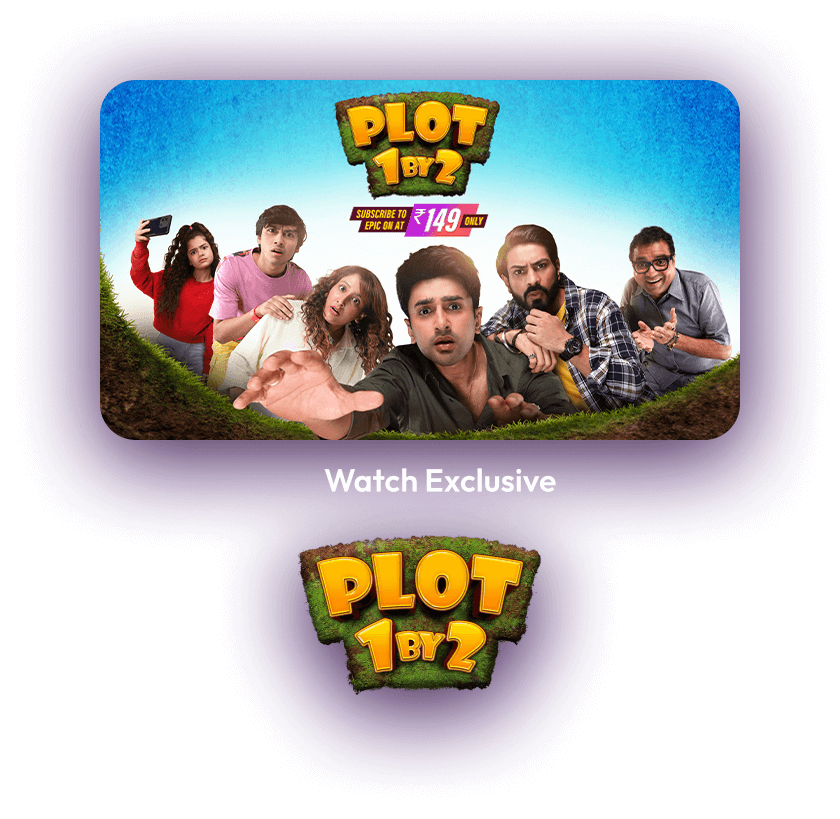
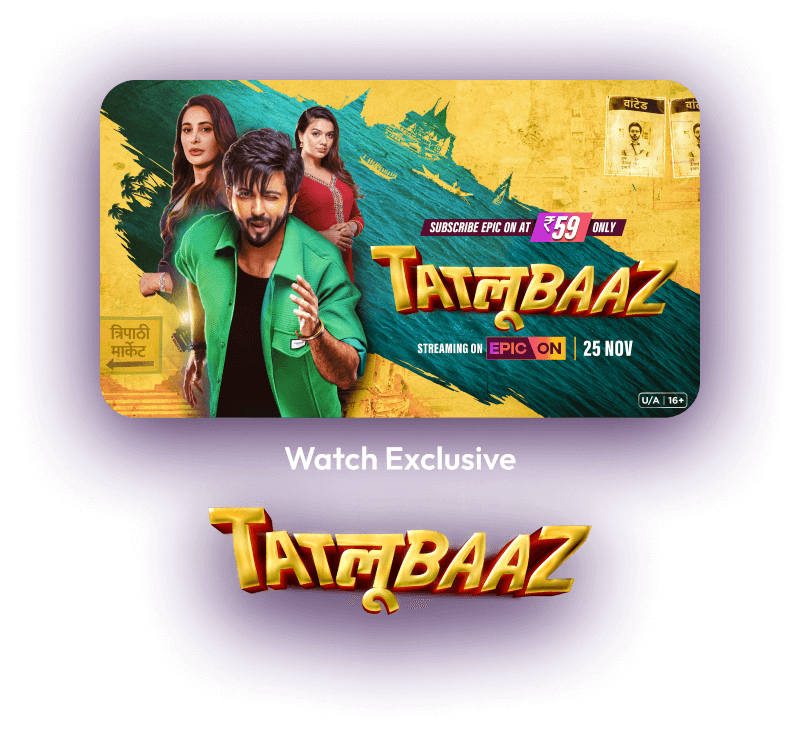
done

diff --git a/resources/views/auth/login-reg-popup.blade.php b/resources/views/auth/login-reg-popup.blade.php
@@ -38,7 +38,7 @@
                 <div class="login-register text-center">
                     <div class="left-side">
                         <div class="w-100 pe-5">
-                            <img class="w-100" src="{{ asset('/img/tatlubaz-bg.png') }}" alt="">
+                            <img class="w-100" src="{{ asset('/img/plot-1-2-bg.png') }}" alt="">
                         </div>
                         <div class="login-carousel px-2">
                             <div>
